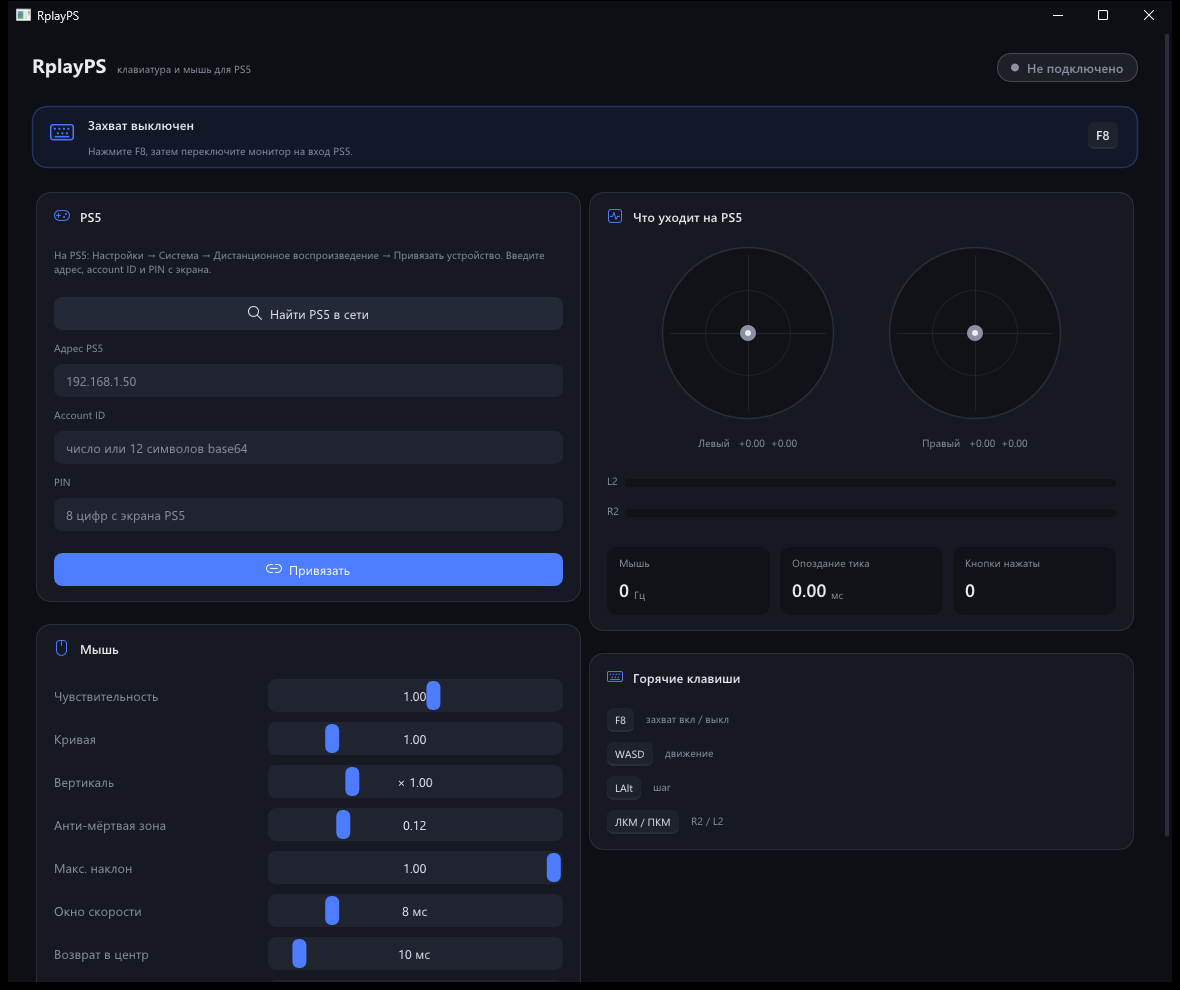
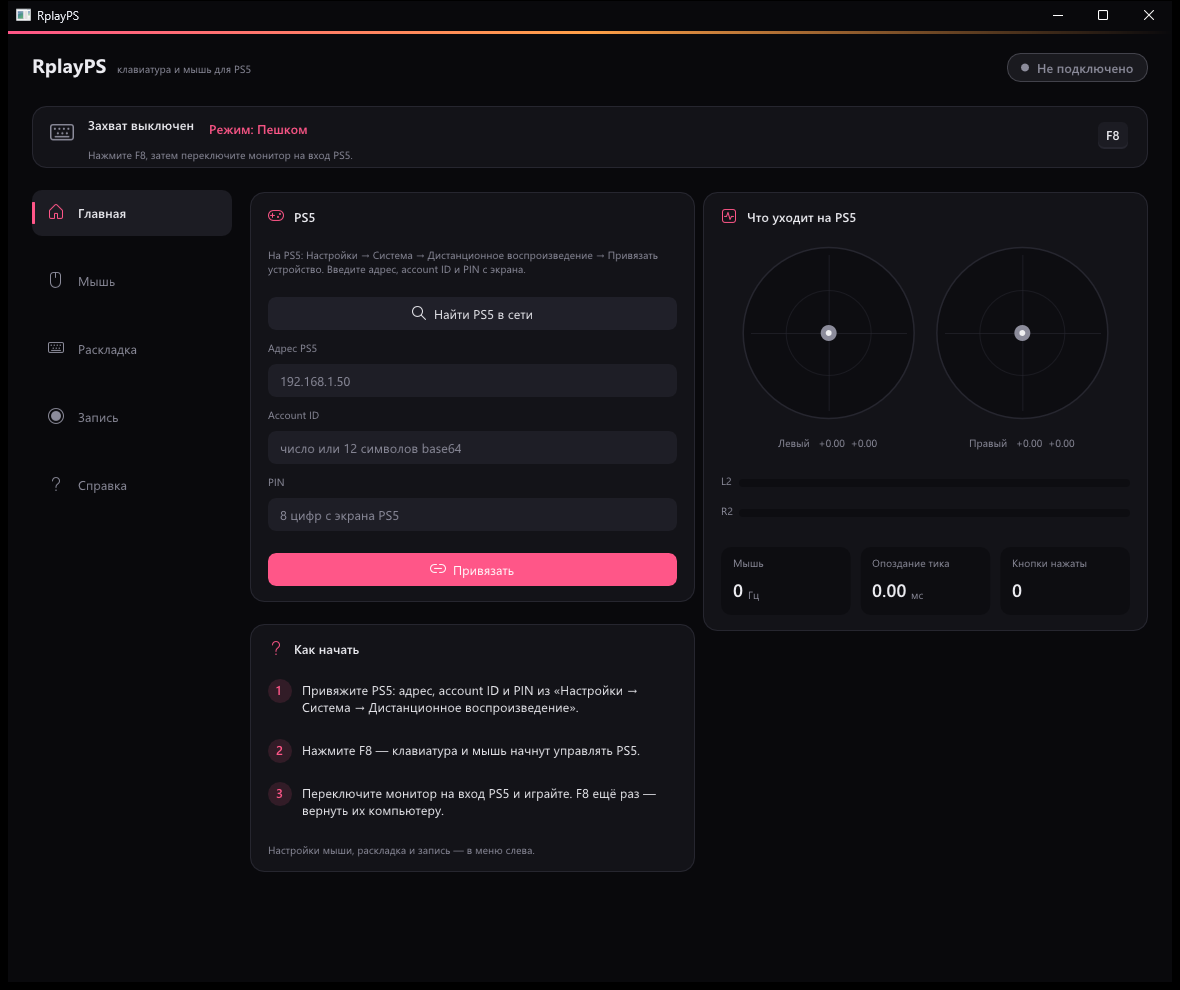
Новый вид: меню слева (Главная, Мышь, Раскладка, Запись, Справка), тёмная PS5-палитра, закатный акцент GTA 6
- Всё лишнее убрано с главной в разделы: любая настройка в 1–2 клика
- Главная: подключение к PS5, что уходит на консоль, «Как начать» в 3 шага
- Один акцент (розовый закат) и тонкая градиентная линия сверху; баннер захвата нейтральный, зелёный только при захвате

diff --git a/src/app/ui.cpp b/src/app/ui.cpp
@@ -90,8 +90,8 @@ void endCard() { ImGui::EndChild(); }
 
 bool primaryButton(const char* label, float width = 0) {
     ImGui::PushStyleColor(ImGuiCol_Button, toVec4(col::Accent));
-    ImGui::PushStyleColor(ImGuiCol_ButtonHovered, toVec4(IM_COL32(104, 145, 255, 255)));
-    ImGui::PushStyleColor(ImGuiCol_ButtonActive, toVec4(IM_COL32(60, 104, 230, 255)));
+    ImGui::PushStyleColor(ImGuiCol_ButtonHovered, toVec4(IM_COL32(255, 116, 158, 255)));
+    ImGui::PushStyleColor(ImGuiCol_ButtonActive, toVec4(IM_COL32(226, 66, 114, 255)));
     ImGui::PushStyleColor(ImGuiCol_Text, toVec4(IM_COL32(255, 255, 255, 255)));
     const bool pressed = ImGui::Button(label, ImVec2(width, 0));
     ImGui::PopStyleColor(4);
@@ -158,7 +158,7 @@ void stickView(const char* label, Stick s, float radius, const Fonts& f) {
     const ImVec2 p = ImGui::GetCursorScreenPos();
     const ImVec2 c(p.x + radius, p.y + radius);
     ImDrawList* dl = ImGui::GetWindowDrawList();
-    dl->AddCircleFilled(c, radius, IM_COL32(16, 18, 24, 255), 64);
+    dl->AddCircleFilled(c, radius, IM_COL32(13, 13, 17, 255), 64);
     dl->AddCircle(c, radius, col::Line, 64, 1.5f);
     dl->AddCircle(c, radius * 0.5f, withAlpha(col::Line, 140), 48, 1.0f);
     dl->AddLine(ImVec2(c.x - radius + 8, c.y), ImVec2(c.x + radius - 8, c.y), withAlpha(col::Line, 160));
@@ -188,7 +188,7 @@ void statTile(const char* label, const char* value, const char* unit, float widt
     ImGui::BeginGroup();
     const ImVec2 p = ImGui::GetCursorScreenPos();
     const float h = 68;
-    ImGui::GetWindowDrawList()->AddRectFilled(p, ImVec2(p.x + width, p.y + h), IM_COL32(16, 18, 24, 255), 10);
+    ImGui::GetWindowDrawList()->AddRectFilled(p, ImVec2(p.x + width, p.y + h), IM_COL32(13, 13, 17, 255), 10);
     ImGui::SetCursorScreenPos(ImVec2(p.x + 12, p.y + 8));
     ImGui::PushFont(f.tiny);
     ImGui::PushStyleColor(ImGuiCol_Text, toVec4(col::Muted));
@@ -222,7 +222,7 @@ void triggerBar(const char* label, std::uint8_t value, const Fonts& f) {
     const float w = ImGui::GetContentRegionAvail().x, h = 8;
     const float y = p.y + 6;
     ImDrawList* dl = ImGui::GetWindowDrawList();
-    dl->AddRectFilled(ImVec2(p.x, y), ImVec2(p.x + w, y + h), IM_COL32(16, 18, 24, 255), h);
+    dl->AddRectFilled(ImVec2(p.x, y), ImVec2(p.x + w, y + h), IM_COL32(13, 13, 17, 255), h);
     if (value) dl->AddRectFilled(ImVec2(p.x, y), ImVec2(p.x + w * value / 255.0f, y + h), col::Accent, h);
     ImGui::Dummy(ImVec2(w, 20));
 }
@@ -260,9 +260,9 @@ void drawCaptureBanner(App& app) {
     const ImVec2 p = ImGui::GetCursorScreenPos();
     const float w = ImGui::GetContentRegionAvail().x, h = 62;
     ImDrawList* dl = ImGui::GetWindowDrawList();
-    const ImU32 tone = captured ? col::Good : col::Accent;
-    dl->AddRectFilled(p, ImVec2(p.x + w, p.y + h), withAlpha(tone, captured ? 36 : 22), 14);
-    dl->AddRect(p, ImVec2(p.x + w, p.y + h), withAlpha(tone, captured ? 140 : 70), 14, 0, 1.5f);
+    const ImU32 tone = captured ? col::Good : col::Muted;  // calm when idle, green when live
+    dl->AddRectFilled(p, ImVec2(p.x + w, p.y + h), captured ? withAlpha(col::Good, 30) : col::Card, 14);
+    dl->AddRect(p, ImVec2(p.x + w, p.y + h), captured ? withAlpha(col::Good, 140) : col::Line, 14, 0, 1.0f);
 
     ImGui::SetCursorScreenPos(ImVec2(p.x + 18, p.y + 14));
     ImGui::PushFont(f.title);
@@ -498,6 +498,66 @@ void drawLive(App& app) {
     endCard();
 }
 
+void drawSidebar(App& app) {
+    const Fonts& f = app.fonts;
+    struct Item {
+        Page page;
+        const char* iconGlyph;
+        const char* title;
+    };
+    static const Item items[] = {
+        {Page::Home, icon::Home, "Главная"},     {Page::Mouse, icon::Mouse, "Мышь"},
+        {Page::Keys, icon::Keyboard, "Раскладка"}, {Page::Record, icon::Record, "Запись"},
+        {Page::Help, icon::Help, "Справка"},
+    };
+    ImGui::BeginChild("##nav", ImVec2(200, 0), ImGuiChildFlags_None, ImGuiWindowFlags_NoBackground);
+    ImDrawList* dl = ImGui::GetWindowDrawList();
+    for (const Item& it : items) {
+        const bool on = app.page == it.page;
+        const ImVec2 p = ImGui::GetCursorScreenPos();
+        const ImVec2 size(ImGui::GetContentRegionAvail().x, 46);
+        ImGui::PushID(static_cast<int>(it.page));
+        if (ImGui::InvisibleButton("##item", size)) app.page = it.page;
+        const bool hover = ImGui::IsItemHovered();
+        ImGui::PopID();
+        if (on || hover) dl->AddRectFilled(p, ImVec2(p.x + size.x, p.y + size.y), on ? col::CardHi : col::Card, 10);
+        if (on) dl->AddRectFilled(ImVec2(p.x, p.y + 12), ImVec2(p.x + 3, p.y + size.y - 12), col::Accent, 2);
+        ImGui::PushFont(on ? f.semibold : f.body);
+        const float th = ImGui::GetTextLineHeight();
+        dl->AddText(ImVec2(p.x + 16, p.y + (size.y - th) * 0.5f), on ? col::Accent : col::Muted, it.iconGlyph);
+        dl->AddText(ImVec2(p.x + 46, p.y + (size.y - th) * 0.5f), on ? col::Text : col::Muted, it.title);
+        ImGui::PopFont();
+        ImGui::Dummy(ImVec2(0, 2));
+    }
+    ImGui::EndChild();
+}
+
+void drawFirstSteps(App& app) {
+    const Fonts& f = app.fonts;
+    beginCard("##steps", icon::Help, "Как начать", f);
+    static const char* steps[] = {
+        "Привяжите PS5: адрес, account ID и PIN из «Настройки → Система → Дистанционное воспроизведение».",
+        "Нажмите F8 — клавиатура и мышь начнут управлять PS5.",
+        "Переключите монитор на вход PS5 и играйте. F8 ещё раз — вернуть их компьютеру.",
+    };
+    for (int i = 0; i < 3; ++i) {
+        const ImVec2 p = ImGui::GetCursorScreenPos();
+        ImDrawList* dl = ImGui::GetWindowDrawList();
+        dl->AddCircleFilled(ImVec2(p.x + 12, p.y + 12), 12, col::AccentSoft);
+        char n[2] = {static_cast<char>('1' + i), 0};
+        ImGui::PushFont(f.semibold);
+        dl->AddText(ImVec2(p.x + 8, p.y + 2), col::Accent, n);
+        ImGui::PopFont();
+        ImGui::SetCursorScreenPos(ImVec2(p.x + 34, p.y + 2));
+        ImGui::PushTextWrapPos(0);
+        ImGui::TextUnformatted(steps[i]);
+        ImGui::PopTextWrapPos();
+        ImGui::Dummy(ImVec2(0, 4));
+    }
+    mutedText("Настройки мыши, раскладка и запись — в меню слева.", f);
+    endCard();
+}
+
 void drawKeys(App& app) {
     const Fonts& f = app.fonts;
     beginCard("##keys", icon::Keyboard, "Горячие клавиши", f);
@@ -607,7 +667,7 @@ void drawBindings(App& app) {
         ImGui::EndTabBar();
     }
     const Layout& layout = app.profile.layout(app.keysClass);
-    ImGui::BeginChild("##keys_list", ImVec2(0, 330), ImGuiChildFlags_None, ImGuiWindowFlags_NoBackground);
+    ImGui::BeginChild("##keys_list", ImVec2(0, 560), ImGuiChildFlags_None, ImGuiWindowFlags_NoBackground);
     if (ImGui::BeginTable("##keys_table", 4, ImGuiTableFlags_RowBg | ImGuiTableFlags_SizingStretchProp)) {
         ImGui::TableSetupColumn("Действие", ImGuiTableColumnFlags_WidthStretch, 2.2f);
         ImGui::TableSetupColumn("Кнопка", ImGuiTableColumnFlags_WidthStretch, 1.0f);
@@ -750,24 +810,41 @@ void drawUi(App& app) {
                      ImGuiWindowFlags_NoBringToFrontOnFocus);
     ImGui::PopStyleVar();
 
+    // Thin sunset line across the top: the one GTA 6 touch.
+    {
+        ImDrawList* dl = ImGui::GetWindowDrawList();
+        const ImVec2 p = ImGui::GetWindowPos();
+        const float w = ImGui::GetWindowWidth();
+        dl->AddRectFilledMultiColor(p, ImVec2(p.x + w * 0.5f, p.y + 3), col::Accent, col::Accent2, col::Accent2,
+                                    col::Accent);
+        dl->AddRectFilledMultiColor(ImVec2(p.x + w * 0.5f, p.y), ImVec2(p.x + w, p.y + 3), col::Accent2,
+                                    withAlpha(col::Accent2, 0), withAlpha(col::Accent2, 0), col::Accent2);
+    }
+
     drawHeader(app);
     drawCaptureBanner(app);
 
-    if (ImGui::BeginTable("##cols", 2, ImGuiTableFlags_SizingStretchSame | ImGuiTableFlags_PadOuterX)) {
-        ImGui::TableNextColumn();
-        drawPs5(app);
-        ImGui::Dummy(ImVec2(0, 2));
-        drawMouse(app);
-        ImGui::TableNextColumn();
-        drawLive(app);
-        ImGui::Dummy(ImVec2(0, 2));
-        drawKeys(app);
-        ImGui::Dummy(ImVec2(0, 2));
-        drawRecord(app);
-        ImGui::Dummy(ImVec2(0, 2));
-        drawBindings(app);
-        ImGui::EndTable();
+    drawSidebar(app);
+    ImGui::SameLine(0, 18);
+    ImGui::BeginChild("##page", ImVec2(0, 0), ImGuiChildFlags_None, ImGuiWindowFlags_NoBackground);
+    switch (app.page) {
+        case Page::Home:
+            if (ImGui::BeginTable("##home", 2, ImGuiTableFlags_SizingStretchSame)) {
+                ImGui::TableNextColumn();
+                drawPs5(app);
+                ImGui::Dummy(ImVec2(0, 2));
+                drawFirstSteps(app);
+                ImGui::TableNextColumn();
+                drawLive(app);
+                ImGui::EndTable();
+            }
+            break;
+        case Page::Mouse: drawMouse(app); break;
+        case Page::Keys: drawBindings(app); break;
+        case Page::Record: drawRecord(app); break;
+        case Page::Help: drawKeys(app); break;
     }
+    ImGui::EndChild();
     ImGui::End();
 }
 

diff --git a/src/app/theme.cpp b/src/app/theme.cpp
@@ -74,23 +74,23 @@ Fonts applyTheme(float dpi) {
     c[ImGuiCol_ChildBg] = toVec4(col::Card);
     c[ImGuiCol_PopupBg] = toVec4(col::CardHi);
     c[ImGuiCol_Border] = toVec4(col::Line);
-    c[ImGuiCol_FrameBg] = toVec4(IM_COL32(32, 36, 48, 255));
-    c[ImGuiCol_FrameBgHovered] = toVec4(IM_COL32(40, 45, 60, 255));
-    c[ImGuiCol_FrameBgActive] = toVec4(IM_COL32(46, 52, 70, 255));
+    c[ImGuiCol_FrameBg] = toVec4(IM_COL32(30, 30, 38, 255));
+    c[ImGuiCol_FrameBgHovered] = toVec4(IM_COL32(38, 38, 48, 255));
+    c[ImGuiCol_FrameBgActive] = toVec4(IM_COL32(44, 44, 56, 255));
     c[ImGuiCol_SliderGrab] = toVec4(col::Accent);
-    c[ImGuiCol_SliderGrabActive] = toVec4(IM_COL32(120, 156, 255, 255));
+    c[ImGuiCol_SliderGrabActive] = toVec4(IM_COL32(255, 128, 166, 255));
     c[ImGuiCol_CheckMark] = toVec4(col::Accent);
-    c[ImGuiCol_Button] = toVec4(IM_COL32(36, 41, 55, 255));
-    c[ImGuiCol_ButtonHovered] = toVec4(IM_COL32(46, 52, 70, 255));
-    c[ImGuiCol_ButtonActive] = toVec4(IM_COL32(56, 63, 84, 255));
+    c[ImGuiCol_Button] = toVec4(IM_COL32(32, 32, 41, 255));
+    c[ImGuiCol_ButtonHovered] = toVec4(IM_COL32(44, 44, 56, 255));
+    c[ImGuiCol_ButtonActive] = toVec4(IM_COL32(52, 52, 66, 255));
     c[ImGuiCol_Header] = toVec4(col::AccentSoft);
-    c[ImGuiCol_HeaderHovered] = toVec4(IM_COL32(77, 124, 255, 70));
-    c[ImGuiCol_HeaderActive] = toVec4(IM_COL32(77, 124, 255, 100));
+    c[ImGuiCol_HeaderHovered] = toVec4(IM_COL32(255, 86, 136, 60));
+    c[ImGuiCol_HeaderActive] = toVec4(IM_COL32(255, 86, 136, 90));
     c[ImGuiCol_Separator] = toVec4(col::Line);
     c[ImGuiCol_PlotHistogram] = toVec4(col::Accent);
     c[ImGuiCol_ScrollbarBg] = ImVec4(0, 0, 0, 0);
     c[ImGuiCol_ScrollbarGrab] = toVec4(col::Line);
-    c[ImGuiCol_TextSelectedBg] = toVec4(IM_COL32(77, 124, 255, 90));
+    c[ImGuiCol_TextSelectedBg] = toVec4(IM_COL32(255, 86, 136, 80));
     c[ImGuiCol_NavHighlight] = toVec4(col::Accent);
     return f;
 }
@@ -98,7 +98,7 @@ Fonts applyTheme(float dpi) {
 void styleTitleBar(HWND hwnd) {
     const BOOL dark = TRUE;
     DwmSetWindowAttribute(hwnd, 20 /*DWMWA_USE_IMMERSIVE_DARK_MODE*/, &dark, sizeof(dark));
-    const COLORREF caption = RGB(13, 15, 20), text = RGB(232, 235, 242);
+    const COLORREF caption = RGB(9, 9, 12), text = RGB(232, 235, 242);
     DwmSetWindowAttribute(hwnd, 35 /*DWMWA_CAPTION_COLOR*/, &caption, sizeof(caption));
     DwmSetWindowAttribute(hwnd, 36 /*DWMWA_TEXT_COLOR*/, &text, sizeof(text));
 }

diff --git a/src/app/theme.h b/src/app/theme.h
@@ -7,14 +7,15 @@
 
 // Palette (sRGB). One dark theme, one accent.
 namespace col {
-constexpr ImU32 Bg = IM_COL32(13, 15, 20, 255);
-constexpr ImU32 Card = IM_COL32(22, 25, 33, 255);
-constexpr ImU32 CardHi = IM_COL32(30, 34, 45, 255);
-constexpr ImU32 Line = IM_COL32(40, 45, 58, 255);
-constexpr ImU32 Text = IM_COL32(232, 235, 242, 255);
-constexpr ImU32 Muted = IM_COL32(138, 145, 163, 255);
-constexpr ImU32 Accent = IM_COL32(77, 124, 255, 255);
-constexpr ImU32 AccentSoft = IM_COL32(77, 124, 255, 40);
+constexpr ImU32 Bg = IM_COL32(9, 9, 12, 255);
+constexpr ImU32 Card = IM_COL32(19, 19, 24, 255);
+constexpr ImU32 CardHi = IM_COL32(28, 28, 35, 255);
+constexpr ImU32 Line = IM_COL32(38, 38, 47, 255);
+constexpr ImU32 Text = IM_COL32(236, 236, 241, 255);
+constexpr ImU32 Muted = IM_COL32(140, 140, 155, 255);
+constexpr ImU32 Accent = IM_COL32(255, 86, 136, 255);   // Vice-sunset pink: the only accent
+constexpr ImU32 Accent2 = IM_COL32(255, 160, 72, 255);  // sunset orange: header gradient only
+constexpr ImU32 AccentSoft = IM_COL32(255, 86, 136, 34);
 constexpr ImU32 Good = IM_COL32(52, 211, 153, 255);
 constexpr ImU32 Warn = IM_COL32(251, 191, 36, 255);
 constexpr ImU32 Bad = IM_COL32(248, 113, 113, 255);
@@ -30,8 +31,10 @@ constexpr const char* Link = "\xEE\x9C\x9B";       // U+E71B
 constexpr const char* Save = "\xEE\x9D\x8E";       // U+E74E
 constexpr const char* Sliders = "\xEE\xA7\xA9";    // U+E9E9
 constexpr const char* Pulse = "\xEE\xA7\x99";      // U+E9D9
-constexpr const char* Record = "\xEE\x9E\xB8";     // U+E7B8
+constexpr const char* Record = "\xEE\x9F\x88";     // U+E7C8
 constexpr const char* Folder = "\xEE\xA0\xB8";     // U+E838
+constexpr const char* Home = "\xEE\xA0\x8F";       // U+E80F
+constexpr const char* Help = "\xEE\xA2\x97";       // U+E897
 }  // namespace icon
 
 struct Fonts {

diff --git a/src/app/ui.h b/src/app/ui.h
@@ -21,6 +21,8 @@ constexpr UINT kMsgLinkState = WM_APP + 10;  // wParam = LinkState
 constexpr UINT kMsgCapture = WM_APP + 11;    // wParam = CaptureEvent
 constexpr UINT kMsgClass = WM_APP + 12;      // wParam = ControlClass
 
+enum class Page { Home, Mouse, Keys, Record, Help };
+
 struct App {
     HWND window = nullptr;
     bool consoleOnly = false;  // --console-only: no PS5, visualiser only
@@ -48,6 +50,7 @@ struct App {
     char pinField[16] = "";
     std::string saveNote;
     ControlClass editClass = ControlClass::Foot;  // which class the mouse tab edits
+    Page page = Page::Home;                         // sidebar section
 
     // Key binding editor: waiting for a key for (keysClass, bindAction, bindSlot).
     ControlClass keysClass = ControlClass::Foot;
